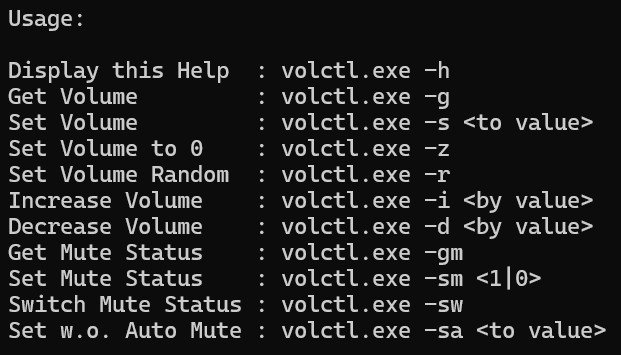
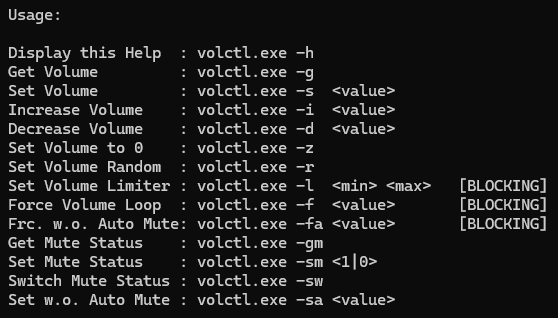
modified:   Images/volctl 01.png 	modified:   README.md 	modified:   project1.lpi 	modified:   project1.lpr 	modified:   project1.lps 	modified:   project1.res

Changed region(s): [[0.0, 0.1415, 1.0, 0.9623], [0.853, 0.9057, 0.9749, 0.9623], [0.0, 0.0283, 0.1219, 0.0849]]

diff --git a/README.md b/README.md
@@ -11,7 +11,28 @@ The Tool was tested with Windows 10 and Windows 11.
 
 ![CLI Screenshot](./Images/volctl%2001.png?raw=true)
 
-TBD
+There are three types of Commands for volctl.
+Some require none, one or two parameters.
+Commands wich are **BLOCKING** will freeze the CLI until Ctrl + C are pressed. 
+
+The following flags exist:
+
+| Flag | Parameters |             Description                      | Important |
+|------|:----------:|----------------------------------------------|-----------|
+| -h   |     0      | Displays the Help Screen.                    |           |
+| -g   |     0      | Outputs the current Volume on CLI.           |           |
+| -s   |     1      | Sets the Volume to the given Parameter.      | Auto Mutes when set to 0 and unmutes when set to > 0. |
+| -i   |     1      | Increases the Volume by the given Parameter. | Can apply positive and negative values.               |
+| -d   |     1      | Decreases the Volume by the given Parameter. | Can apply positive and negative values.               |
+| -z   |     0      | Sets the Volume to 0.                        | Does not automatically mute the Volume.               |
+| -r   |     0      | Sets the Volume to a random Value up to 100. | Auto Mutes when set to 0 and unmutes when set to > 0. |
+| -l   |     2      | Limits the Volume between Parameter 1 and 2. | BLOCKING: Prevents further CLI usage until Ctrl + C.  |
+| -f   |     1      | Forces the Volume to the given Parameter.    | BLOCKING: Prevents further CLI usage until Ctrl + C.  |
+| -fa  |     1      | Same as -f without forcing unmute.           | BLOCKING: Prevents further CLI usage until Ctrl + C.  |
+| -gm  |     0      | Displays 1 if muted and 0 if unmuted on CLI. |           |
+| -sm  |     1      | Mutes for 1 and unmutes for 0 as Parameter.  |           |
+| -sw  |     0      | Switches the current Mute Status.            |           |
+| -sa  |     1      | Same as -s without forcing unmute or mute.   | Does not automatically mute or unmute like -s.        |
 
 ## Use Cases
 
@@ -41,6 +62,9 @@ You can also use the **Volunit.pas** Unit itself for your own Applications.
 
 * Version 1.0.0:
   * Initial Release.
+* Version 1.0.1:
+  * Added Volume forcing.
+  * Added Volume limiting.
 
 ## License
 
